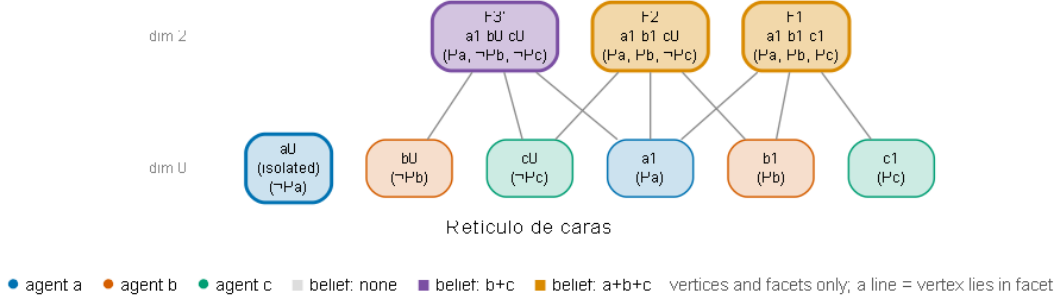
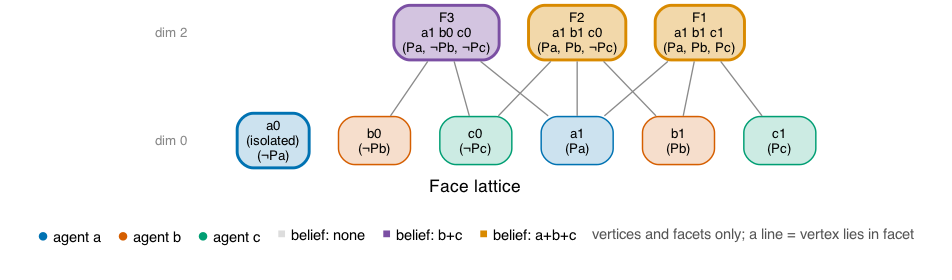
Update figures

diff --git a/paper/make_figures.py b/paper/make_figures.py
@@ -107,3 +107,37 @@ proper3 = improper3.to_proper()
 assert proper3.is_proper()
 simp3 = to_simplicial(proper3)
 trio(simp3, "ex3", "Example 3", relational=proper3, rel_title="Example 3, after to_proper")
+
+
+# --------------------------------------------------------------------------- #
+# Background figures of the paper (Section 2): the three-agent bit complex as
+# the GUI draws it, before and after the announcement that a's bit is 1 with
+# revision. Written next to the .tex under the names it includes
+# (SimplicialExample1/2, HasseExample0.2/0.3/0.4), with English titles:
+# "Complex as entered" is the GUI's preview title, "Simplicial complex" and
+# "Face lattice" the titles of its pipeline figures. Node and facet names
+# (a0..c1, F1..F3) and the vertex atoms are the ones typed in the GUI.
+# --------------------------------------------------------------------------- #
+PAPER = os.path.dirname(os.path.abspath(__file__))
+_names = {a0: "a0", a1: "a1", b0: "b0", b1: "b1", c0: "c0", c1: "c1"}
+_bits = {a0: {"Pa": 0}, a1: {"Pa": 1}, b0: {"Pb": 0}, b1: {"Pb": 1}, c0: {"Pc": 0}, c1: {"Pc": 1}}
+F1, F2 = frozenset({a1, b1, c1}), frozenset({a1, b1, c0})
+F3_before, F3_after = frozenset({a0, b0, c0}), frozenset({a1, b0, c0})
+before = SimplicialBeliefModel(agents, nodes, {F1, F2, F3_before},
+                               {ag: {F1, F2, F3_before} for ag in agents},
+                               world_of_facet={F1: "F1", F2: "F2", F3_before: "F3"},
+                               node_names=_names)
+# After the announcement a0 lies in no facet (an isolated perspective, K45) and
+# F3 = {a1, b0, c0} is believed by b and c only.
+after = SimplicialBeliefModel(agents, nodes, {F1, F2, F3_after},
+                              {"a": {F1, F2}, "b": {F1, F2, F3_after}, "c": {F1, F2, F3_after}},
+                              world_of_facet={F1: "F1", F2: "F2", F3_after: "F3"},
+                              node_names=_names, axiom_d=False)
+print(show(before, "SimplicialExample1", "Complex as entered", output_dir=PAPER, assignment=_bits))
+print(show(after, "SimplicialExample2", "Simplicial complex", output_dir=PAPER, assignment=_bits))
+print(hasse.show(hasse.face_lattice(before, include_empty=False, assignment=_bits),
+                 "HasseExample0.4", "Face lattice", output_dir=PAPER))
+print(hasse.show(hasse.face_lattice(after, include_empty=False, assignment=_bits),
+                 "HasseExample0.3", "Face lattice", output_dir=PAPER))
+print(hasse.show(hasse.face_lattice(after, include_empty=False, assignment=_bits),
+                 "HasseExample0.2", "Face lattice", output_dir=PAPER, facets_and_vertices=True))
